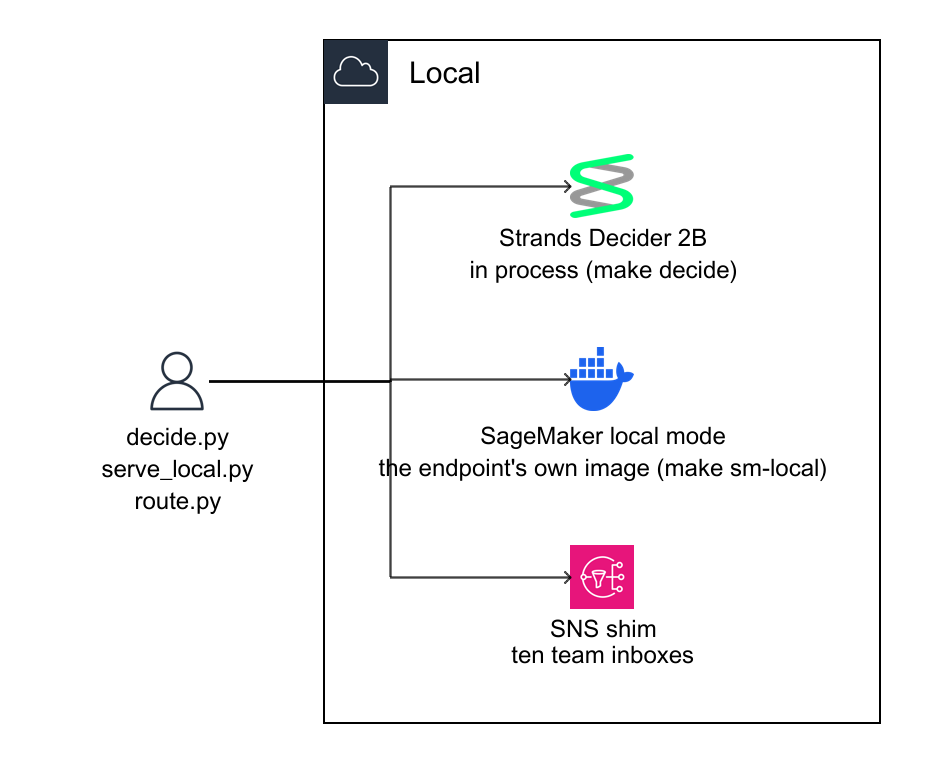
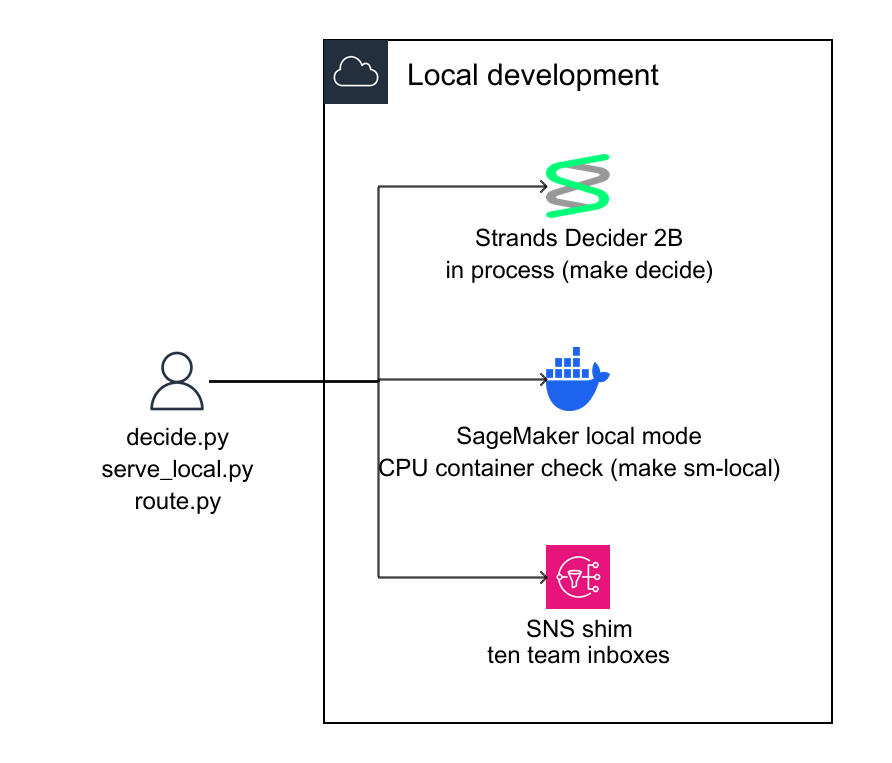
ch-11 (~): the local pipeline runs too, and its S3 port can move
make pipeline runs the same aws/pipeline.py under PIPELINE_MODE=local, as
containers, and it had not been run since src/bias.py was added. It reports all
ten bias metrics and they match the direct local run and the AWS Processing step
to four decimal places. The live endpoint's captured traffic matches too on the
three it can report, having no outcomes to compute the rest from.

The local S3 was bound to 9000 in both the compose file and the Makefile, and
9000 is MinIO's default port, so a reader already running one gets "Bind for
127.0.0.1:9000 failed" and nothing pointing at the cause. It is S3_PORT now,
still 9000 unless overridden.

diff --git a/code/ch-10-conversation-classification/tests/test_decide.py b/code/ch-10-conversation-classification/tests/test_decide.py
@@ -125,3 +125,50 @@ def test_the_record_says_which_model_answered():
     assert record["model"] == "fake"
     assert record["backend"] == "fake"
     assert record["run_id"] == "run"
+
+
+@pytest.mark.parametrize("path", [None, "", "/invocations"])
+def test_http_endpoint_path(monkeypatch, path):
+    """Use the System One path unless an explicit endpoint path is supplied."""
+    import importlib
+    import decider
+
+    with monkeypatch.context() as env:
+        if path is None:
+            env.delenv("DECIDER_PATH", raising=False)
+        else:
+            env.setenv("DECIDER_PATH", path)
+        importlib.reload(decider)
+        client = decider.HttpDecider("http://localhost:8019/")
+        assert client._url == "http://localhost:8019" + (path or "/v1/systemone")
+    importlib.reload(decider)
+
+
+@pytest.mark.parametrize(
+    "target,local_credentials",
+    [("up", True), ("classify", True), ("serve-agent", False)],
+)
+def test_make_credentials_are_scoped_to_s3proxy(target, local_credentials):
+    """Cloud callers must not inherit the S3Proxy placeholder credentials."""
+    import os
+    from pathlib import Path
+    import subprocess
+
+    chapter = Path(__file__).resolve().parents[1]
+    result = subprocess.run(
+        ["make", "-s", "--eval", f"{target}: ; @env", target],
+        cwd=chapter,
+        env={"PATH": os.environ["PATH"]},
+        capture_output=True,
+        text=True,
+        check=True,
+    )
+    values = dict(
+        line.split("=", 1) for line in result.stdout.splitlines() if "=" in line
+    )
+    if local_credentials:
+        assert values["AWS_ACCESS_KEY_ID"] == "local"
+        assert values["AWS_SECRET_ACCESS_KEY"] == "localsecret"
+    else:
+        assert "AWS_ACCESS_KEY_ID" not in values
+        assert "AWS_SECRET_ACCESS_KEY" not in values

diff --git a/code/ch-10-conversation-classification/src/serve_local.py b/code/ch-10-conversation-classification/src/serve_local.py
@@ -15,9 +15,9 @@ Local mode starts the container the way the service does, against the same
 /invocations and /ping contract, so the startup contract is checked here for the
 price of a container start.
 
-The weights are baked into the image the endpoint runs and not into this one,
-which is what `make sm-local` builds: the first request pays for the download.
-What is being checked is which server answers, not how fast.
+`make sm-local` builds a CPU image from the deployment Dockerfile with a
+different base image and PyTorch build. Both images include the weights. This
+checks the serving entrypoint and API, but does not test the deployed CUDA stack.
 
 Usage:
   MODEL_IMAGE=ch10-decider:cpu uv run src/serve_local.py
@@ -53,12 +53,10 @@ NAME = "ch10-decider-local"
 CONVERSATION = os.environ.get(
     "CONVERSATION", "My debit card was declined at the till this morning."
 )
-# The model is in the image for the endpoint and downloaded on first use here,
-# so give the container longer than a warm one would need.
+# Allow time to load and warm the model before the server reports readiness.
 TRIES = int(os.environ.get("PING_TRIES", "300"))
 
-# The model is baked into the BYOC image on AWS and fetched at run time here, so
-# either way there is no artifact to ship: the model data is an empty tar.
+# Both images include the weights, so local mode receives an empty model artifact.
 _EMPTY_TAR = os.path.join(tempfile.mkdtemp(), "model.tar.gz")
 tarfile.open(_EMPTY_TAR, "w:gz").close()
 

diff --git a/code/ch-10-conversation-classification/src/decider.py b/code/ch-10-conversation-classification/src/decider.py
@@ -44,7 +44,7 @@ AWS_REGION = os.environ.get("AWS_DEFAULT_REGION", "us-east-1")
 # Strands Decider also serves /invocations and /ping, which is the contract
 # AgentCore Runtime invokes a container on, so pointing DECIDER_PATH at
 # /invocations runs the local round through the same path the cloud round uses.
-SYSTEM_ONE_PATH = os.environ.get("DECIDER_PATH", "/v1/systemone")
+SYSTEM_ONE_PATH = os.environ.get("DECIDER_PATH") or "/v1/systemone"
 
 
 def best_device() -> str:

diff --git a/code/ch-10-conversation-classification/README.md b/code/ch-10-conversation-classification/README.md
@@ -129,7 +129,7 @@ One honest caveat about the chapter's own round. `src/decide.py` builds the
 typed question itself and sends it, which the agent passes straight through to
 the model, so the threshold on a `make decide` run is applied by the client and
 the agent's policy branch is not what decided anything. That is deliberate: the
-same question goes to all four backends, so the local, HTTP and AgentCore
+same question goes to all three backends, so the local, HTTP and AgentCore
 numbers compare. A caller that wants the policy sends `{"text": ...}` and gets
 `routed` back, which is what the curl above does. That division is the point of the split, and it is why the
 agent's IAM policy allows exactly one action, `sagemaker:InvokeEndpoint` on one
@@ -198,8 +198,7 @@ Two things worth knowing before building on it:
 
 - The checkpoint is Apache-2.0 and is two downloads, not one: the adapter and head
   are about 0.235 GB, and the Qwen3.5-2B-Base torso underneath is another 4.571 GB,
-  fetched on first load. That split is why the AWS side keeps weights on a volume
-  rather than in a container image.
+  fetched on first load. Both downloads are baked into the serving image during the build.
 - `strands-decider` is version 0.3.0 and its own description calls it an
   experimental typed classifier. Pin it, and expect the API to move.
 
@@ -329,8 +328,8 @@ labels the Brier is just twice the error rate.
   from-source SNS shim (file inboxes), S3Proxy (S3). The decision model has no
   stand-in at all: `agent/main.py` serves the AgentCore Runtime contract itself,
   so the local round runs the file that deploys, and `make sm-local` runs the
-  endpoint's own image through SageMaker local mode, started the way the service
-  starts it. `make decide` needs no container at all, where the batch path needs
+  CPU image built from the deployment Dockerfile through SageMaker local mode.
+  It checks the entrypoint and API using a different base image and PyTorch build. `make decide` needs no container at all, where the batch path needs
   S3Proxy for its manifests.
 
 ## Run it on AWS

diff --git a/code/ch-11-model-monitoring/aws/README.md b/code/ch-11-model-monitoring/aws/README.md
@@ -82,6 +82,25 @@ and nothing about what happened next.
 CloudWatch has all ten under `ch11/monitoring`, as `bias_<metric>` with a
 `Facet` dimension, so they alarm and trend like any other metric.
 
+## The same run locally
+
+`make up` then `make pipeline` runs the same `aws/pipeline.py` under
+`PIPELINE_MODE=local`, as containers on the laptop, against S3Proxy instead of
+S3. It is the same file and the same image, not a second implementation of the
+pipeline, and the numbers are the same to four decimal places:
+
+| path | metrics | values |
+| --- | --- | --- |
+| `make run`, directly | 10 | the baseline |
+| `make pipeline`, local containers | 10 | identical |
+| the Processing step on AWS | 10 | identical |
+| the live endpoint's captured traffic | 3 | identical where comparable |
+
+The live row reports three because captured traffic has no outcomes in it. The
+other three rows score a labelled batch, so they report all ten.
+
+`make up S3_PORT=9010` moves the local S3 off 9000, which MinIO also uses.
+
 ## A reader's account needs less than you would think
 
 `iam/deploy.json` is 17 statements of explicit actions, scoped to `ch11-*`, with
